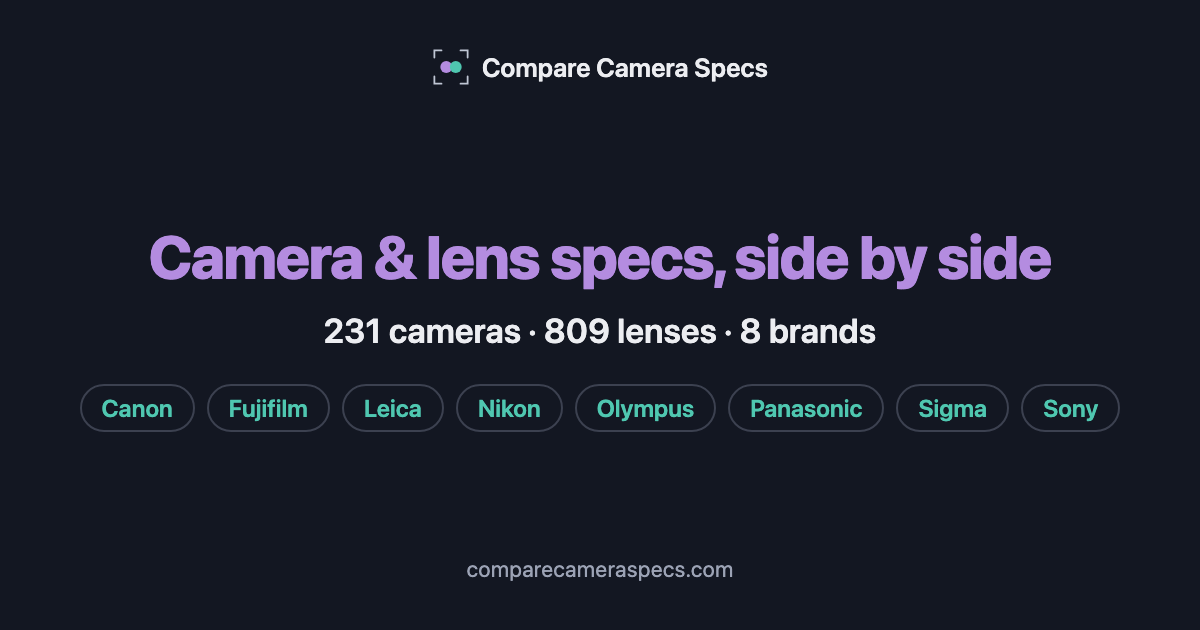
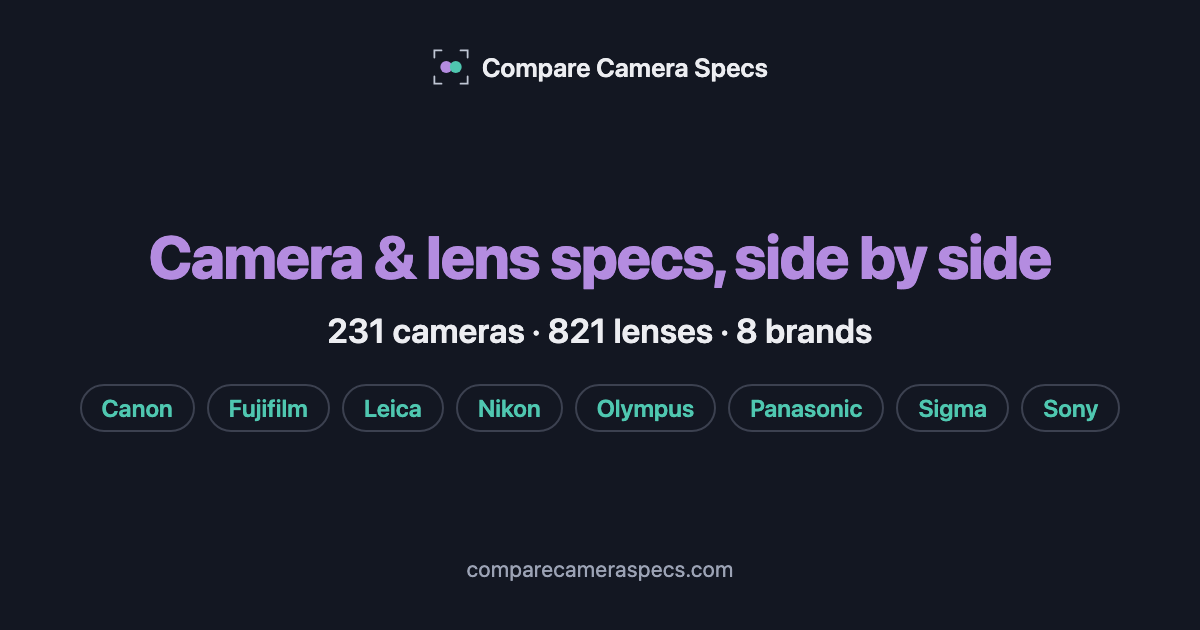
Re-render Fujifilm and home share cards after merging main (#74 lens count)
Claude-Session: https://claude.ai/code/session_01KyXeQ289MiUa5hE497BBrD

Changed region(s): [[0.2775, 0.4825, 0.74, 0.5429]]

diff --git a/about.html b/about.html
@@ -15,7 +15,7 @@
   <meta property="og:image" content="https://comparecameraspecs.com/og/home.png">
   <meta property="og:image:width" content="1200">
   <meta property="og:image:height" content="630">
-  <meta property="og:image:alt" content="Compare 231 cameras and 809 lenses from 8 brands side by side">
+  <meta property="og:image:alt" content="Compare 231 cameras and 821 lenses from 8 brands side by side">
   <meta name="twitter:card" content="summary_large_image">
   <meta name="twitter:image" content="https://comparecameraspecs.com/og/home.png">
   <script>

diff --git a/index.html b/index.html
@@ -88,7 +88,7 @@
   <meta property="og:image" content="https://comparecameraspecs.com/og/home.png">
   <meta property="og:image:width" content="1200">
   <meta property="og:image:height" content="630">
-  <meta property="og:image:alt" content="Compare 231 cameras and 809 lenses from 8 brands side by side">
+  <meta property="og:image:alt" content="Compare 231 cameras and 821 lenses from 8 brands side by side">
   <meta name="twitter:card" content="summary_large_image">
   <meta name="twitter:image" content="https://comparecameraspecs.com/og/home.png">
   <script>

diff --git a/privacy.html b/privacy.html
@@ -15,7 +15,7 @@
   <meta property="og:image" content="https://comparecameraspecs.com/og/home.png">
   <meta property="og:image:width" content="1200">
   <meta property="og:image:height" content="630">
-  <meta property="og:image:alt" content="Compare 231 cameras and 809 lenses from 8 brands side by side">
+  <meta property="og:image:alt" content="Compare 231 cameras and 821 lenses from 8 brands side by side">
   <meta name="twitter:card" content="summary_large_image">
   <meta name="twitter:image" content="https://comparecameraspecs.com/og/home.png">
   <script>

diff --git a/fujifilm/index.html b/fujifilm/index.html
@@ -15,7 +15,7 @@
   <meta property="og:image" content="https://comparecameraspecs.com/og/fujifilm.png">
   <meta property="og:image:width" content="1200">
   <meta property="og:image:height" content="630">
-  <meta property="og:image:alt" content="Fujifilm: compare 40 cameras and 150 lenses side by side">
+  <meta property="og:image:alt" content="Fujifilm: compare 40 cameras and 162 lenses side by side">
   <meta name="twitter:card" content="summary_large_image">
   <meta name="twitter:image" content="https://comparecameraspecs.com/og/fujifilm.png">
   <script>
